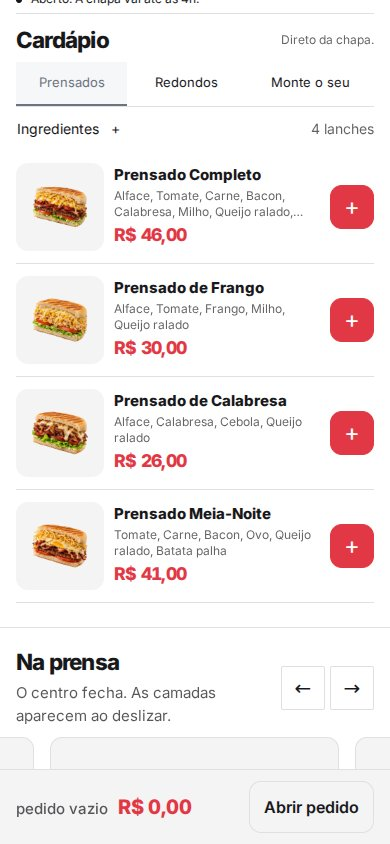
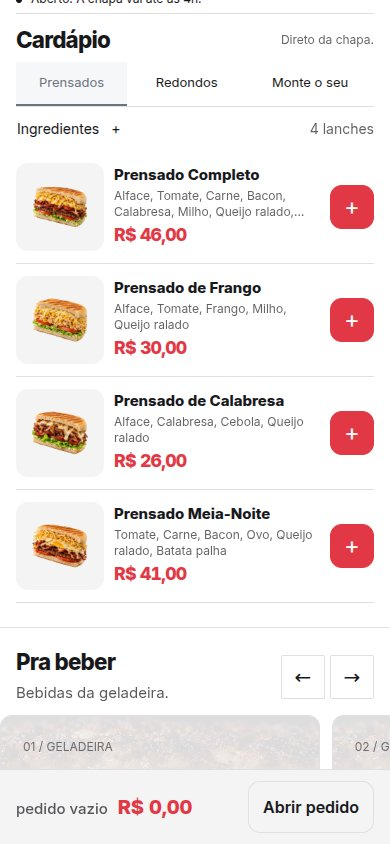
Pilar Estrutura: a aba reordena e oculta seção da lancheria-2, no servidor
A aba Estrutura mostrava "A estrutura pertence à skin escolhida" para estas
skins. Agora funciona como nas outras oito.

As outras skins montam as seções no `visiveis.map` do próprio Skin.tsx.
Esta não pode: o componente vem pronto do pacote e monta a ordem por
dentro. Então a estrutura sai em CSS, gerado a partir da MESMA
`secoesVisiveis`/`ordemEfetiva` que todas as skins usam — o dado é o mesmo,
só o mecanismo muda. Funciona porque `#conteudo` tem exatamente oito filhos
diretos, um por seção, cada um com seu `data-d-secao`: uma regra de `order`
por seção reordena, `display:none` oculta.

Renderizado no SERVIDOR, junto com o HTML. Ordem e ocultação mexem em
layout; fazer isso depois da hidratação seria deslocamento puro, que é o
que o portão de CLS existe pra pegar.

Animação por seção NÃO entra: `SkinDefinition.animacaoPorSecao: false`. O
componente do pacote marca `data-d-secao` mas não tem wrapper de entrada
onde pendurar animação — sem o campo, o painel mostraria um botão morto.
Ausente = suportado, que é o caso das oito skins nativas.

## O risco do plano, medido

Virar `#conteudo` em coluna flex era a única mudança que podia mexer no
desenho aprovado no P25. Não mexeu: `qa-lancheria.mjs`, que compara a caixa
de cada cartão, dá 4 / 6 / 4 / 4 cartões inteiros na entrada em 390x844 —
exatamente os números do P25.

Mas a rodada achou OUTRA coisa, e essa era real. O Prático subiu de 4 para
3 cartões ao ganhar a faixa hero. Causa: cada layout encolhe a
[…]

diff --git a/src/lib/demos/__tests__/lancheria.test.ts b/src/lib/demos/__tests__/lancheria.test.ts
@@ -13,7 +13,10 @@ import { montarDemoDataAvulsa } from '../avulsas/identidade';
 import { aplicarTema } from '../tema';
 import { validateLeadDemoInput } from '../validate';
 import { getSkin, getTheme } from '../registry';
-import { exemploDaSkin } from '../variantes';
+import { exemploDaSkin, getVariante } from '../variantes';
+import { secoesVisiveis } from '../estrutura';
+import { montarDemoData } from '../montar';
+import type { DemoData } from '../types';
 
 const skin=LANCHERIA_2;
 const variantes=skin.variantes!;
@@ -47,6 +50,57 @@ describe('lancheria: fronteira do Radar e motor fixo',()=>{
       expect(exemploDaSkin(skin,v.id)).toBe(v.exemplo);
     }
   });
+  it('a aba Estrutura chega no HTML do servidor: ordem e ocultação viram CSS',()=>{
+    const theme=aplicarTema(getTheme(skin,skin.themeDefault.id),undefined,skin.heroEscalaLimites);
+    const render=(patch:Partial<DemoData>)=>renderToStaticMarkup(createElement(skin.componente,{
+      data:montarDemoData({...exemploDaSkin(skin,skin.themeDefault.id),...patch},undefined,undefined,skin.id),
+      theme,
+    }));
+    const ordemDe=(html:string)=>[...html.matchAll(/\[data-d-secao="([^"]+)"\]\{order:(\d+)\}/g)]
+      .sort((a,b)=>Number(a[2])-Number(b[2])).map(m=>m[1]);
+    const ocultasDe=(html:string)=>[...html.matchAll(/\[data-d-secao="([^"]+)"\]\{display:none\}/g)].map(m=>m[1]);
+
+    // Sem patch: a ordem default do contrato, nada oculto.
+    const padrao=render({ordemSecoes:undefined,secoes:Object.fromEntries(skin.secoes.map(s=>[s.id,{}]))});
+    expect(ordemDe(padrao)).toEqual(skin.secoes.map(s=>s.id));
+    expect(ocultasDe(padrao)).toEqual([]);
+
+    // Reordenar as não-fixas: as fixas ficam no lugar, as outras seguem o pedido.
+    const reordenado=render({
+      ordemSecoes:['horarios','historia','acompanhamentos','bebidas','sugestoes'],
+      secoes:Object.fromEntries(skin.secoes.map(s=>[s.id,{}])),
+    });
+    expect(ordemDe(reordenado)).toEqual([
+      'hero','cardapio','horarios','historia','acompanhamentos','bebidas','sugestoes','contato',
+    ]);
+
+    // Ocultar sai do fluxo E some da numeração — nunca deixa buraco na ordem.
+    const comOculta=render({
+      ordemSecoes:undefined,
+      secoes:{...Object.fromEntries(skin.secoes.map(s=>[s.id,{}])),bebidas:{oculta:true}},
+    });
+    expect(ocultasDe(comOculta)).toEqual(['bebidas']);
+    expect(ordemDe(comOculta)).toEqual([
+      'hero','cardapio','sugestoes','acompanhamentos','historia','horarios','contato',
+    ]);
+
+    // Seção FIXA não pode ser ocultada, nem por dado salvo à mão.
+    const tentandoOcultarFixa=render({
+      ordemSecoes:undefined,
+      secoes:{...Object.fromEntries(skin.secoes.map(s=>[s.id,{}])),hero:{oculta:true}},
+    });
+    expect(ocultasDe(tentandoOcultarFixa)).toEqual([]);
+  });
+  it('cada variante entra com o SEU arranjo, e o Prático nasce sem a trilha',()=>{
+    const arranjo=(v:typeof variantes[number])=>secoesVisiveis(skin.secoes,
+      montarDemoData(v.exemplo,undefined,undefined,skin.id));
+    expect(arranjo(getVariante(skin,'lancheria-meia-noite')!)).toEqual(
+      ['hero','cardapio','sugestoes','historia','bebidas','acompanhamentos','horarios','contato']);
+    expect(arranjo(getVariante(skin,'lancheria-cantina')!)).toEqual(
+      ['hero','cardapio','historia','sugestoes','bebidas','acompanhamentos','horarios','contato']);
+    expect(arranjo(getVariante(skin,'lancheria-pratico')!)).toEqual(
+      ['hero','cardapio','bebidas','acompanhamentos','horarios','historia','contato']);
+  });
   it('mudar slug não altera os knobs e pelo-rotulo funciona fora do Diner',()=>{
     const d=dadosDaLancheria(dadosQaLancheria(skin));
     const tema={...temaDaLancheria(skin.themeDefault),slug:'identidade-futura',filtroInicial:'todos' as const,abrirComposicao:'pelo-rotulo' as const};
@@ -60,7 +114,7 @@ describe('lancheria: fronteira do Radar e motor fixo',()=>{
     expect(()=>validateLeadDemoInput(input({}, {quente:'#cc4411',frio:'#224466'}))).not.toThrow();
   });
   it('o diff do editor persiste os seis lanches, funcionamento e ingredientes sem perda',()=>{
-    const d=dadosQaLancheria(skin,'cliente');const patch=montarPatch(skin.demoDataExemplo,d,skin);
+    const d=dadosQaLancheria(skin,undefined,'cliente');const patch=montarPatch(skin.demoDataExemplo,d,skin);
     expect(()=>validateLeadDemoInput(input(patch))).not.toThrow();
     const montado=montarDemoDataAvulsa(skin.demoDataExemplo,patch,skin.id);
     expect(montado.lancheria).toEqual(d.lancheria);
@@ -71,7 +125,7 @@ describe('lancheria: fronteira do Radar e motor fixo',()=>{
     expect(d.casa).toMatchObject({nome:'Outra casa',marca:'Outra casa',telefone:'',whatsapp:'',cidade:'',endereco:''});
   });
   it('catálogos simultâneos não compartilham preço nem nome de ingrediente',()=>{
-    const a=dadosDaLancheria(dadosQaLancheria(skin,'cliente')),b=dadosDaLancheria(skin.demoDataExemplo);
+    const a=dadosDaLancheria(dadosQaLancheria(skin,undefined,'cliente')),b=dadosDaLancheria(skin.demoDataExemplo);
     const pa=criarPedido(a),pb=criarPedido(b),precos=criarPrecos(a);
     expect(pa.itemFixo(a.lanches[0]).cent).toBe(4100);
     expect(pb.itemFixo(b.lanches[0]).cent).toBe(b.lanches[0].precoCent);
@@ -89,7 +143,7 @@ describe('lancheria: fronteira do Radar e motor fixo',()=>{
     expect(()=>validateLeadDemoInput({...input(),idioma:'de-CH'})).toThrow();
   });
   it('o relógio respeita minutos, intervalo diurno e horário de madrugada',()=>{
-    const c=dadosDaLancheria(dadosQaLancheria(skin,'cliente')).casa;
+    const c=dadosDaLancheria(dadosQaLancheria(skin,undefined,'cliente')).casa;
     expect(horarioDaCasa(new Date('2026-09-13T14:29:00Z'),c).aberto).toBe(false);
     expect(horarioDaCasa(new Date('2026-09-13T14:30:00Z'),c).aberto).toBe(true);
     expect(horarioDaCasa(new Date('2026-09-14T01:16:00Z'),c).aberto).toBe(false);

diff --git a/src/app/leads/[id]/demo/editar/paineis.tsx b/src/app/leads/[id]/demo/editar/paineis.tsx
@@ -1800,6 +1800,7 @@ function ItemEstrutura({
   alinhamento,
   entrada,
   animada,
+  temAnimacao,
   onOcultar,
   onAlinhar,
   onEntrada,
@@ -1815,6 +1816,8 @@ function ItemEstrutura({
   alinhamento: Alinhamento | undefined;
   entrada: AnimacaoEntrada | undefined;
   animada: boolean;
+  /** A skin implementa animação por seção? (SkinDefinition.animacaoPorSecao) */
+  temAnimacao: boolean;
   onOcultar: () => void;
   onAlinhar: (opcao: Alinhamento) => void;
   onEntrada: (opcao: AnimacaoEntrada | undefined) => void;
@@ -1868,7 +1871,7 @@ function ItemEstrutura({
           ))}
         </div>
       )}
-      {!oculta && (
+      {!oculta && temAnimacao && (
         <div className="mt-2 flex flex-wrap items-center gap-1.5">
           <span className="text-[10px] uppercase tracking-wide text-ink-muted">Animação</span>
           <BotaoAnimacaoSecao animada={animada} onToggle={onAnimacao} />
@@ -1935,9 +1938,10 @@ export function PainelEstrutura({
     <div className="flex flex-col gap-3">
       <p className="text-[11px] text-ink-muted">
         Arraste para reordenar. Seções ocultas continuam editáveis e podem voltar quando
-        quiser. Desligar a animação de uma seção tira a entrada no scroll e apaga o efeito
-        de fundo (com transição suave) enquanto ela estiver na tela. O template segue
-        responsivo — sem posicionamento livre.
+        quiser.{" "}
+        {skin.animacaoPorSecao !== false &&
+          "Desligar a animação de uma seção tira a entrada no scroll e apaga o efeito de fundo (com transição suave) enquanto ela estiver na tela. "}
+        O template segue responsivo — sem posicionamento livre.
       </p>
 
       {skin.secoes
@@ -1951,12 +1955,14 @@ export function PainelEstrutura({
             {def.nome}
             <span className="ml-auto text-[10px] uppercase tracking-wide">fixa</span>
             {/* Fixa não reordena nem oculta, mas anima — e pode deixar de animar. */}
-            <BotaoAnimacaoSecao
-              animada={secaoAnimada(dados, def.id)}
-              onToggle={() =>
-                setSecao(def.id, { animacao: secaoAnimada(dados, def.id) ? false : undefined })
-              }
-            />
+            {skin.animacaoPorSecao !== false && (
+              <BotaoAnimacaoSecao
+                animada={secaoAnimada(dados, def.id)}
+                onToggle={() =>
+                  setSecao(def.id, { animacao: secaoAnimada(dados, def.id) ? false : undefined })
+                }
+              />
+            )}
           </div>
         ))}
 
@@ -1981,6 +1987,7 @@ export function PainelEstrutura({
               alinhamento={alinhamento}
               entrada={secao?.animacaoEntrada}
               animada={secaoAnimada(dados, id)}
+              temAnimacao={skin.animacaoPorSecao !== false}
               onOcultar={() => setSecao(id, { oculta: oculta ? undefined : true })}
               onAlinhar={(opcao) => setSecao(id, { alinhamento: opcao })}
               onEntrada={(opcao) => setSecao(id, { animacaoEntrada: opcao })}

diff --git a/src/components/demos/lancheria2/Skin.tsx b/src/components/demos/lancheria2/Skin.tsx
@@ -1,7 +1,10 @@
 import { Lancheria } from "@radar/lancheria-rx/client";
 
+import { secoesVisiveis } from "@/lib/demos/estrutura";
 import { dadosDaLancheria, temaDaLancheria } from "@/lib/demos/lancheria/adapter";
 import type { SkinProps } from "@/lib/demos/types";
+
+import { LANCHERIA2_SECOES } from "./secoes";
 
 /**
  * Skin `lancheria-2` — quatro variantes sobre o motor calibrado
@@ -11,9 +14,47 @@ import type { SkinProps } from "@/lib/demos/types";
  * O componente do pacote é o mesmo nas quatro: a animação do lanche e o
  * raio-x do hambúrguer são a essência da skin. O que a variante troca é o
  * `Tema` (paleta, tipografia, layout do cardápio, assinatura) e o arranjo
- * das seções, que chega em `data` como `ordemSecoes`/`secoes[].oculta`
- * normais.
+ * das seções.
+ *
+ * ## Estrutura (ordem e ocultação)
+ *
+ * As outras oito skins montam as seções em JS, no `visiveis.map` do próprio
+ * `Skin.tsx`. Esta não pode: o componente vem pronto do pacote e monta a
+ * ordem por dentro. A estrutura sai então em CSS, gerado AQUI a partir da
+ * mesma `secoesVisiveis`/`ordemEfetiva` que todas as skins usam — o dado é
+ * o mesmo, só o mecanismo muda.
+ *
+ * Funciona porque `#conteudo` tem exatamente OITO filhos diretos, um por
+ * seção do contrato, cada um marcado com `data-d-secao` (ver secoes.ts).
+ * Uma regra de `order` por seção reordena; `display: none` oculta.
+ *
+ * É renderizado no SERVIDOR, junto com o HTML: ordem e ocultação mexem em
+ * layout, e fazer isso depois da hidratação seria deslocamento de layout
+ * puro — o portão de CLS (`scripts/qa-cls.mjs`) existe exatamente pra isso.
+ *
+ * `#conteudo` vira coluna flex (é o que dá sentido a `order`). O ritmo
+ * vertical da folha do pacote é todo por `padding`, e o único `margin-top`
+ * (`.a-chapa`) não tem par para colapsar — então virar flex não muda o
+ * desenho. Isso não é suposição: `scripts/qa-lancheria.mjs` compara a caixa
+ * de cada cartão do cardápio contra as medidas aprovadas.
  */
 export function Lancheria2({ data, theme }: SkinProps) {
-  return <Lancheria tema={temaDaLancheria(theme)} dados={dadosDaLancheria(data)} />;
+  const visiveis = secoesVisiveis(LANCHERIA2_SECOES, data);
+  const ocultas = LANCHERIA2_SECOES.map((s) => s.id).filter((id) => !visiveis.includes(id));
+
+  // Escopo no `[data-lancheria-app]` do pacote: a folha dele já é isolada
+  // assim, e a demo pública nunca tem duas skins na mesma página.
+  const raiz = "[data-lancheria-app] #conteudo";
+  const estrutura = [
+    `${raiz}{display:flex;flex-direction:column}`,
+    ...visiveis.map((id, i) => `${raiz}>[data-d-secao="${id}"]{order:${i}}`),
+    ...ocultas.map((id) => `${raiz}>[data-d-secao="${id}"]{display:none}`),
+  ].join("");
+
+  return (
+    <>
+      <style>{estrutura}</style>
+      <Lancheria tema={temaDaLancheria(theme)} dados={dadosDaLancheria(data)} />
+    </>
+  );
 }

diff --git a/public/lancheria-rx/estrutura.css b/public/lancheria-rx/estrutura.css
@@ -745,6 +745,11 @@ html:where(:has([data-lancheria-app]))[data-transicao] #rx-pilha [data-inst] > .
 @keyframes placa-assentar { 0% { transform: rotate(-7deg); } 45% { transform: rotate(3deg); } 75% { transform: rotate(-1deg); } 100% { transform: rotate(0); } }
 
 /* PRÁTICO — pedido em primeiro plano. Uma linha usa a mesma foto em 88px. */
+:is(html:has([data-lancheria-app][data-layout='lista'])) .hero-faixa { height: 88px; min-height: 0; max-height: 30dvh; }
+:is(html:has([data-lancheria-app][data-layout='lista'])) .hero-faixa::after { display: none; }
+:is(html:has([data-lancheria-app][data-layout='lista'])) .hero-texto h1 { font-size: 1.25rem; line-height: 1.2; max-width: none; letter-spacing: -.03em; font-weight: 750; }
+:is(html:has([data-lancheria-app][data-layout='lista'])) .hero-texto p { font-size: .8125rem; }
+:is(html:has([data-lancheria-app][data-layout='lista'])) .hero-texto { gap: 4px; }
 :is(html:has([data-lancheria-app][data-layout='lista'])) .cabecalho-casa { height: 52px; }
 :is(html:has([data-lancheria-app][data-layout='lista'])) .marca-texto { font-size: 1.2rem; color: var(--osso); font-weight: 800; }
 :is(html:has([data-lancheria-app][data-layout='lista'])) .cabecalho-casa .nota { font-size: .75rem; }
@@ -863,6 +868,8 @@ html:where(:has([data-lancheria-app]))[data-transicao] #rx-pilha [data-inst] > .
   :is(html:has([data-lancheria-app][data-layout='lista'])) .lanche-card > [data-add] { width: 108px; }
   :is(html:has([data-lancheria-app][data-layout='lista'])) .adicionar-label { position: static; width: auto; height: auto; clip-path: none; font-size: .875rem; }
   :is(html:has([data-lancheria-app][data-layout='lista'])) .adicionar-mais { display: none; }
+  :is(html:has([data-lancheria-app][data-layout='lista'])) .hero-faixa { height: 120px; }
+  :is(html:has([data-lancheria-app][data-layout='lista'])) .hero-texto h1 { font-size: 2rem; }
   :is(html:has([data-lancheria-app][data-layout='folha'])) .hero-faixa { height: 150px; }
   :is(html:has([data-lancheria-app][data-layout='folha'])) .hero-texto { padding: 40px 32px 26px; }
   :is(html:has([data-lancheria-app][data-layout='folha'])) .hero-texto h1 { font-size: 2.75rem; }

diff --git a/src/app/interno/lancheria/[skinId]/[[...cenario]]/page.tsx b/src/app/interno/lancheria/[skinId]/[[...cenario]]/page.tsx
@@ -1,19 +1,26 @@
 import { notFound } from 'next/navigation';
 import { PaginaDemo, resolverDemo, viewportDaDemo } from '@/app/demo/comum';
 import { getSkin } from '@/lib/demos/registry';
+import { varianteEfetiva } from '@/lib/demos/variantes';
 import { dadosQaLancheria } from '@/lib/demos/lancheria/qa';
 
 /** Protegido pelo proxy, sem banco: usa o MESMO resolvedor/árvore das rotas públicas.
- * Não é um link de cliente nem aceita ?tema=. A configuração vem da skin no servidor. */
+ * Não é um link de cliente nem aceita ?tema=. A configuração vem da skin no servidor.
+ *
+ * O parâmetro é o id de uma VARIANTE (`lancheria-diner`) — que é também o
+ * skinId aposentado de antes da fusão, resolvido por SKINS_MIGRADAS — ou o
+ * id da skin (`lancheria-2`), que cai na variante default. */
 export const dynamic='force-dynamic';
 type Props={params:Promise<{skinId:string;cenario?:string[]}>};
 async function resolver({params}:Props) {
   const {skinId,cenario=[]}=await params;
   const skin=getSkin(skinId);
   if(!skin?.themeDefault.lancheria||cenario.length>1||cenario.some(c=>c!=='cliente'))notFound();
-  const dados=dadosQaLancheria(skin,cenario[0]);
-  const resolvida=await resolverDemo({id:`qa-${skin.id}`,avulsa:true,nome:dados.nome,idioma:'pt-BR',moeda:'BRL',
-    demo:{skinId:skin.id,themeId:skin.themeDefault.id,dados,criadoEm:'2026-09-13T00:00:00Z',atualizadoEm:'2026-09-13T00:00:00Z'}});
+  const variante=varianteEfetiva(skin,skinId);
+  if(!variante)notFound();
+  const dados=dadosQaLancheria(skin,variante.id,cenario[0]);
+  const resolvida=await resolverDemo({id:`qa-${variante.id}`,avulsa:true,nome:dados.nome,idioma:'pt-BR',moeda:'BRL',
+    demo:{skinId:skin.id,themeId:variante.id,dados,criadoEm:'2026-09-13T00:00:00Z',atualizadoEm:'2026-09-13T00:00:00Z'}});
   if(!resolvida)notFound();
   return resolvida;
 }

diff --git a/src/lib/demos/lancheria/qa.ts b/src/lib/demos/lancheria/qa.ts
@@ -1,10 +1,14 @@
 import { exemploLancheria } from '@radar/lancheria-rx/contrato';
 import type { DemoData, SkinDefinition } from '../types';
+import { exemploDaSkin, varianteEfetiva } from '../variantes';
 
-/** Fixtures explícitas, usadas apenas no harness interno e nos testes. */
-export function dadosQaLancheria(skin: SkinDefinition, cenario='padrao'): DemoData {
-  const data=structuredClone(skin.demoDataExemplo);
-  const {casa}=exemploLancheria(skin.themeDefault.lancheria!.hero);
+/** Fixtures explícitas, usadas apenas no harness interno e nos testes.
+ *  `varianteId` escolhe a camada de exemplo — sem ele as quatro variantes
+ *  renderizariam a primeira, e o harness compararia a mesma coisa 4x. */
+export function dadosQaLancheria(skin: SkinDefinition, varianteId?: string, cenario='padrao'): DemoData {
+  const data=structuredClone(exemploDaSkin(skin,varianteId));
+  const tema=(varianteEfetiva(skin,varianteId)?.theme ?? skin.themeDefault).lancheria!;
+  const {casa}=exemploLancheria(tema.hero);
   Object.assign(data,{nome:casa.nome,cidade:casa.cidade,endereco:casa.endereco,telefone:casa.telefone,whatsapp:casa.whatsapp});
   data.lancheria!.funcionamento.confirmado=true;
   if(cenario==='cliente') {

diff --git a/src/lib/demos/types.ts b/src/lib/demos/types.ts
@@ -670,6 +670,18 @@ export interface SkinDefinition {
   demoDataExemplo: DemoData;
   /** Seções da skin, na ordem default de render (contrato do editor). */
   secoes: SkinSecaoDef[];
+  /**
+   * A skin implementa animação de ENTRADA por seção (`DemoSecao.animacao`,
+   * o liga/desliga da aba Estrutura)? Ausente = sim, que é o caso das oito
+   * skins nativas: cada uma envolve suas seções em `SecaoMarcada` +
+   * `SectionReveal` e emite `data-d-secao-anim`.
+   *
+   * `false` para skin cujo componente vem de um pacote externo e monta as
+   * próprias seções — ela marca `data-d-secao` (a âncora de captura), mas
+   * não tem wrapper de entrada onde pendurar a animação. Sem isso o painel
+   * mostraria um botão que não faz nada.
+   */
+  animacaoPorSecao?: false;
   /** Limites de escala do título hero oferecidos na aba Tema do editor. */
   heroEscalaLimites: { min: number; max: number };
   /**

diff --git a/src/lib/demos/__tests__/variantes.test.tsx b/src/lib/demos/__tests__/variantes.test.tsx
@@ -43,7 +43,14 @@ function htmlNeutro(skin: SkinDefinition, variante: SkinVariante): string {
     ) };
   const data = montarDemoData(neutro, undefined, undefined, skin.id);
   const theme = aplicarTema(getTheme(skin, variante.id), undefined, skin.heroEscalaLimites);
-  return renderToStaticMarkup(createElement(skin.componente, { data, theme }));
+  // Fora o conteúdo de <style>: uma skin pode NOMEAR seções no CSS (a
+  // lancheria-2 ordena e oculta por `[data-d-secao="…"]{order:N}`), e isso
+  // não é marcação. Sem tirar, o teste contaria a regra como se fosse a
+  // caixa — e foi exatamente o que ele pegou quando o CSS entrou.
+  return renderToStaticMarkup(createElement(skin.componente, { data, theme })).replace(
+    /<style\b[^>]*>[\s\S]*?<\/style>/g,
+    "",
+  );
 }
 
 const secoesNoHtml = (html: string): string[] =>

diff --git a/src/components/demos/lancheria2/index.ts b/src/components/demos/lancheria2/index.ts
@@ -22,6 +22,11 @@ export const LANCHERIA_2: SkinDefinition = {
   themePresets: LANCHERIA2_VARIANTES.map((v) => v.theme),
   demoDataExemplo: LANCHERIA2_VARIANTES[0].exemplo,
   secoes: LANCHERIA2_SECOES,
+  // O componente vem do pacote calibrado e monta as próprias seções: ele
+  // marca `data-d-secao` (a âncora de captura), mas não tem wrapper de
+  // entrada onde pendurar animação por seção. Sem isto o painel Estrutura
+  // mostraria um botão que não faz nada.
+  animacaoPorSecao: false,
   localeFixo: { idioma: "pt-BR", moeda: "BRL" },
   // O título hero é tipografia calibrada do pacote: sem slider de escala.
   heroEscalaLimites: { min: 1, max: 1 },

diff --git a/src/app/leads/[id]/demo/editar/EditorClient.tsx b/src/app/leads/[id]/demo/editar/EditorClient.tsx
@@ -856,8 +856,7 @@ export function DemoEditorClient({ id, tipo = "lead" }: { id: string; tipo?: Tip
                 paisSalvando={salvandoPais}
               />
             )}
-            {aba === "estrutura" && skin.themeDefault.lancheria && <p className="text-sm">A estrutura pertence à skin escolhida. Edite lanches, ingredientes e textos em Conteúdo.</p>}
-            {aba === "estrutura" && !skin.themeDefault.lancheria && (
+            {aba === "estrutura" && (
               <PainelEstrutura dados={dados} skin={skin} atualizar={atualizar} />
             )}
             {aba === "capturas" && (
